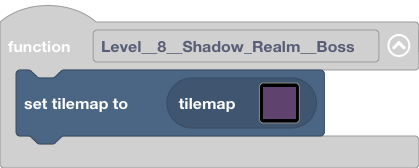
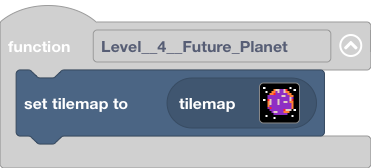
Update main.blocks, main.ts, tilemap.g.jres, tilemap.g.ts

diff --git a/tilemap.g.ts b/tilemap.g.ts
@@ -200,6 +200,8 @@ namespace myTiles {
     export const tile98 = image.ofBuffer(hex``);
     //% fixedInstance jres blockIdentity=images._tile
     export const tile99 = image.ofBuffer(hex``);
+    //% fixedInstance jres blockIdentity=images._tile
+    export const tile100 = image.ofBuffer(hex``);
 
     helpers._registerFactory("tilemap", function(name: string) {
         switch(helpers.stringTrim(name)) {
@@ -1040,6 +1042,25 @@ namespace myTiles {
 . . . . . . . . . . . . . . . . 
 . . . . . . . . . . . . . . . . 
 `, [myTiles.transparency16,myTiles.tile72], TileScale.Sixteen);
+            case "level44":
+            case "level44":return tiles.createTilemap(hex`1000100006040404040404040404040404060404040404040402030305050301040404060406040402020503050503020204040404040402020105050505050502020404040405050505050505030305050202040404050505050505050505050503050406040103050505030505050505030104040402030505050305050303050202040404020305050503050505050505020404040205050505050505050505050204040405010505050505050505050502040404040505050505050501030303040604040404050303050505020202040404040404040405050505050505040404040406040404040404040404040404060404040404040604040404040404040404`, img`
+. . . . . . . . . . . . . . . . 
+. . . . . . . . . . . . . . . . 
+. . . . . . . . . . . . . . . . 
+. . . . . . . . . . . . . . . . 
+. . . . . . . . . . . . . . . . 
+. . . . . . . . . . . . . . . . 
+. . . . . . . . . . . . . . . . 
+. . . . . . . . . . . . . . . . 
+. . . . . . . . . . . . . . . . 
+. . . . . . . . . . . . . . . . 
+. . . . . . . . . . . . . . . . 
+. . . . . . . . . . . . . . . . 
+. . . . . . . . . . . . . . . . 
+. . . . . . . . . . . . . . . . 
+. . . . . . . . . . . . . . . . 
+. . . . . . . . . . . . . . . . 
+`, [myTiles.transparency16,myTiles.tile88,myTiles.tile89,myTiles.tile90,myTiles.tile92,myTiles.tile96,myTiles.tile97,myTiles.tile100], TileScale.Sixteen);
         }
         return null;
     })
@@ -1245,6 +1266,8 @@ namespace myTiles {
             case "tile98":return tile98;
             case "myTile72":
             case "tile99":return tile99;
+            case "myTile73":
+            case "tile100":return tile100;
         }
         return null;
     })

diff --git a/main.ts b/main.ts
@@ -589,7 +589,7 @@ sprites.onOverlap(SpriteKind.Player, SpriteKind.Monster, function (sprite, other
     pause(1500)
 })
 function Level__4__Future_Planet () {
-	
+    tiles.setCurrentTilemap(tilemap`level44`)
 }
 function Level__5__Lost_City () {
     SpawnNPCJhonny(20, 30)
